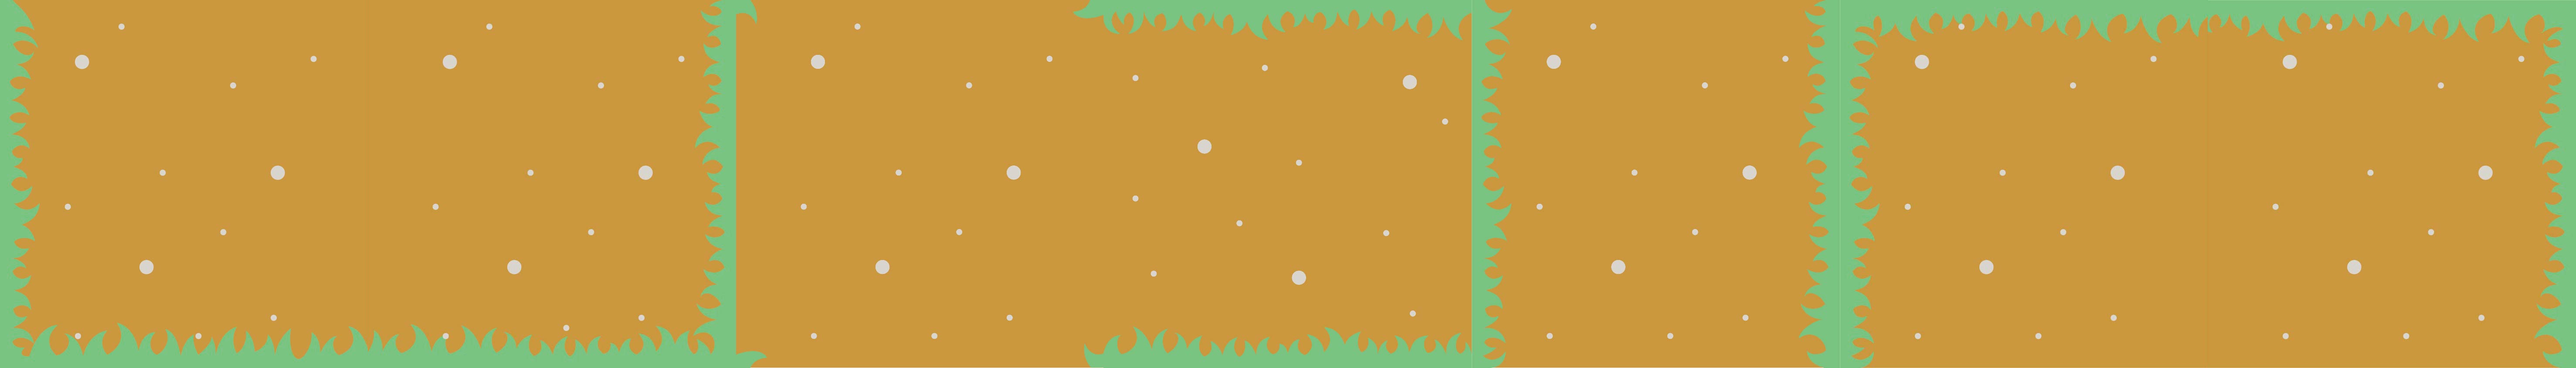
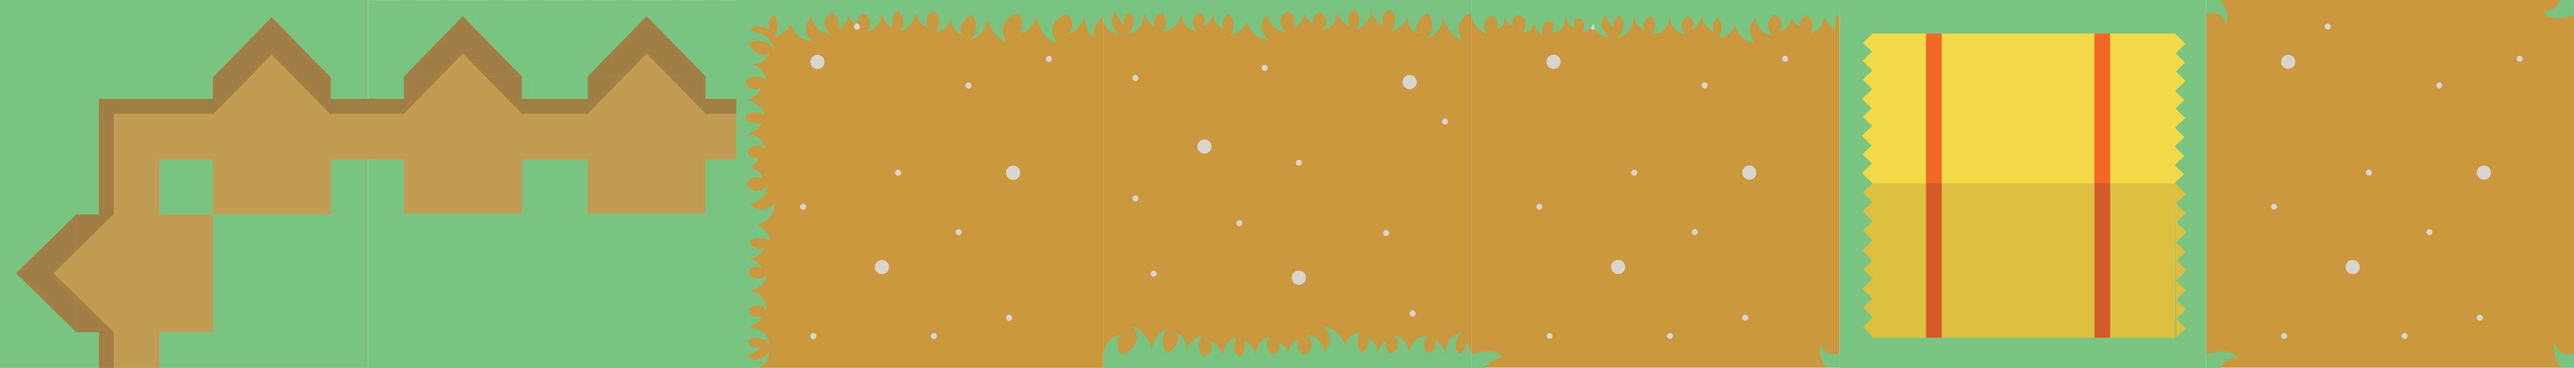
lots of stuff

diff --git a/scripts/render/background.js b/scripts/render/background.js
@@ -16,82 +16,90 @@ MyGame.render.Background = function(graphics){
     image.src = "assets/tilemap-path.jpg";
 
     function render() {
-        for (let i = 0; i < MyGame.constants.TILES_PER_COL; i++){
-            for (let j = 0; j < MyGame.constants.TILES_PER_ROW; j++) {
+        for (let row = 0; row < MyGame.constants.TILES_PER_COL; row++){
+            for (let column = 0; column < MyGame.constants.TILES_PER_ROW; column++) {
                 let tileIndex = -1;
                 let rotation = 0;
 
                 // Corner Border Tiles
-                if (i === 0 && j === 0){
+                if (row === 0 && column === 0){
                     tileIndex = 0;
                 }
-                else if (i === 0 && j === MyGame.constants.TILES_PER_ROW - 1){
+                else if (row === 0 && column === MyGame.constants.TILES_PER_ROW - 1){
                     tileIndex = 0;
                     rotation = 90;
                 }
-                else if (i === MyGame.constants.TILES_PER_COL - 1 && j === MyGame.constants.TILES_PER_ROW - 1) {
+                else if (row === MyGame.constants.TILES_PER_COL - 1 && column === MyGame.constants.TILES_PER_ROW - 1) {
                     tileIndex = 0;
                     rotation = 180;
                 }
-                else if (i === MyGame.constants.TILES_PER_COL - 1 && j === 0) {
+                else if (row === MyGame.constants.TILES_PER_COL - 1 && column === 0) {
                     tileIndex = 0;
                     rotation = 270;
                 }
 
                 // Straight Border Tiles
-                else if (i === 0 || i === MyGame.constants.TILES_PER_COL - 1){
+                else if (row === 0){
                     tileIndex = 1;
                 }
-                else if (j === 0 || j === MyGame.constants.TILES_PER_ROW - 1) {
+                else if (column === MyGame.constants.TILES_PER_ROW - 1) {
                     tileIndex = 1;
                     rotation = 90;
+                }
+                else if(row === MyGame.constants.TILES_PER_COL - 1){
+                    tileIndex = 1;
+                    rotation = 180;
+                }
+                else if (column === 0) {
+                    tileIndex = 1;
+                    rotation = 270;
                 }
 
                 // Corner Path Tiles
-                if (i === 1 && j === 1){
+                else if (row === 1 && column === 1){
                     tileIndex = 2;
                 }
-                else if (i === 1 && j === MyGame.constants.TILES_PER_ROW - 2){
+                else if (row === 1 && column === MyGame.constants.TILES_PER_ROW - 2){
                     tileIndex = 2;
                     rotation = 90;
                 }
-                else if (i === MyGame.constants.TILES_PER_COL - 2 && j === MyGame.constants.TILES_PER_ROW - 2) {
+                else if (row === MyGame.constants.TILES_PER_COL - 2 && column === MyGame.constants.TILES_PER_ROW - 2) {
                     tileIndex = 2;
                     rotation = 180;
                 }
-                else if (i === MyGame.constants.TILES_PER_COL - 2 && j === 1) {
+                else if (row === MyGame.constants.TILES_PER_COL - 2 && column === 1) {
                     tileIndex = 2;
                     rotation = 270;
                 }
 
                 // Straight Path Tiles
-                else if (i % 2 === 0 && j % 2 === 1){
+                else if (row % 2 === 1 && column % 2 === 0){
                     tileIndex = 3;
                 }
-                else if (i % 2 === 1 && j % 2 === 0) {
+                else if (row % 2 === 0 && column % 2 === 1) {
                     tileIndex = 3;
                     rotation = 90;
                 }
 
                 // T Path Tiles
-                else if (i === 1){
+                else if (row === 1){
                     tileIndex = 4;
                 }
-                else if (j === MyGame.constants.TILES_PER_ROW - 2) {
+                else if (column === MyGame.constants.TILES_PER_ROW - 2) {
                     tileIndex = 4;
                     rotation = 90;
                 }
-                else if (i === MyGame.constants.TILES_PER_COL - 2) {
+                else if (row === MyGame.constants.TILES_PER_COL - 2) {
                     tileIndex = 4;
                     rotation = 180;
                 }
-                else if (j === 1) {
+                else if (column === 1) {
                     tileIndex = 4;
                     rotation = 270;
                 }
 
                 // Barrier Tiles
-                else if (i % 2 === 0){
+                else if (row % 2 === 0){
                     tileIndex = 5;
                 }
 
@@ -99,7 +107,7 @@ MyGame.render.Background = function(graphics){
                 else {
                     tileIndex = 6;
                 }
-                let center = { x: (j * tileWidth) + (tileWidth / 2), y: (i * tileHeight) + (tileHeight / 2) }
+                let center = { x: (column * tileWidth) + (tileWidth / 2), y: (row * tileHeight) + (tileHeight / 2) }
                 graphics.drawSubTexture(image, 0, tileIndex, subTextureWidth, image.height, center, rotation, tileSize);
             }
         }

diff --git a/scripts/gamemodel.js b/scripts/gamemodel.js
@@ -1,13 +1,13 @@
 function GameModel(keyboard, objects) {
     let collisionGrid = [];
-    let player1 = objects.SmolAngryBoi({
-        grid: collisionGrid,
-        size: { x: MyGame.constants.TILE_WIDTH, y: MyGame.constants.TILE_HEIGHT },
-        center: { x: MyGame.constants.TILE_WIDTH * 3 / 2, y: MyGame.constants.TILE_HEIGHT * 3 / 2 },
-        moveRate: MyGame.constants.STARTING_SPEED
-    });
+    let players = [];
+    let eggs = [];
+    let nextId = 0;
 
     function update(elapsedTime) {
+        for (let i = 0; i < eggs.length; i++) {
+            eggs[i].update(elapsedTime);
+        }
     }
 
     function initialize() {
@@ -17,37 +17,84 @@ function GameModel(keyboard, objects) {
                 if (
                     row === 0 ||
                     column === 0 ||
+                    column === MyGame.constants.TILES_PER_ROW - 1 ||
                     row === MyGame.constants.TILES_PER_COL - 1 ||
-                    row === MyGame.constants.TILES_PER_ROW - 1 ||
                     (row % 2 === 0 && column % 2 === 0)
                 ){
-                    collisionGrid[row][column] = 1;
+                    collisionGrid[row][column] = MyGame.constants.BARRIER_BLOCK;
                 }
                 else {
-                    collisionGrid[row][column] = 0;
+                    collisionGrid[row][column] = MyGame.constants.EMPTY;
                 }
             }
         }
 
+        players.push(objects.SmolAngryBoi({
+            id: 0,
+            grid: collisionGrid,
+            size: { x: MyGame.constants.TILE_WIDTH, y: MyGame.constants.TILE_HEIGHT },
+            center: { x: MyGame.constants.TILE_WIDTH * 3 / 2, y: MyGame.constants.TILE_HEIGHT * 3 / 2 },
+            moveRate: MyGame.constants.STARTING_SPEED,
+            reportEvent
+        }));
+        players.push(objects.SmolAngryBoi({
+            id: 1,
+            grid: collisionGrid,
+            size: { x: MyGame.constants.TILE_WIDTH, y: MyGame.constants.TILE_HEIGHT },
+            center: { x: MyGame.constants.TILE_WIDTH * MyGame.constants.TILES_PER_ROW - (MyGame.constants.TILE_WIDTH * 3 / 2), y: MyGame.constants.TILE_HEIGHT * 3 / 2 },
+            moveRate: MyGame.constants.STARTING_SPEED,
+            reportEvent
+        }));
+
         initializeKeyboard();
     }
     function initializeKeyboard() {
-        keyboard.register('w', player1.moveUp);
-        keyboard.register('a', player1.moveLeft);
-        keyboard.register('s', player1.moveDown);
-        keyboard.register('d', player1.moveRight);
+        keyboard.register('w', players[0].moveUp);
+        keyboard.register('a', players[0].moveLeft);
+        keyboard.register('s', players[0].moveDown);
+        keyboard.register('d', players[0].moveRight);
+        keyboard.register('q', players[0].layEgg);
+
+        keyboard.register('ArrowUp', players[1].moveUp);
+        keyboard.register('ArrowLeft', players[1].moveLeft);
+        keyboard.register('ArrowDown', players[1].moveDown);
+        keyboard.register('ArrowRight', players[1].moveRight);
+        keyboard.register('/', players[1].layEgg);
     }
 
     function reportEvent(info) {
         switch(info.type) {
+            case 'lay-egg':
+                handleEggLaid(info.id, info.location);
+                break;
+            case 'eggsplode':
+                handleEggsplosion(info.id, info.belongsTo, info.location);
+                break;
         }
+    }
+
+    function handleEggLaid(playerId, location) {
+        eggs.push(objects.Egg({
+            id: nextId++,
+            playerId,
+            location,
+            reportEvent
+        }));
+    }
+
+    function handleEggsplosion(id, belongsTo, location) {
+        eggs = eggs.filter(egg => egg.id !== id);
+        players[belongsTo].returnEgg();
+
+        //TODO: Determine which players were hit by the egg's power
     }
 
     initialize();
 
     let api = {
         update: update,
-        get player1() { return player1; }
+        get players() { return players; },
+        get eggs() { return eggs; }
     }
 
     return api;

diff --git a/scripts/render/game.js b/scripts/render/game.js
@@ -1,15 +1,33 @@
 MyGame.render.Game = function(model, graphics) {
     'use strict';
     let renderer = MyGame.render;
-    let birdRender = renderer.SmolAngryBoi(model.player1, graphics);
+
     let background = renderer.Background(graphics);
+    let egg = renderer.Egg(graphics);
+    let characters = [];
+    for (let i = 0; i < model.players.length; i++){
+        characters.push(renderer.SmolAngryBoi(model.players[i], graphics));
+    }
 
     function update(elapsedTime) {
-        birdRender.update(model.player1, elapsedTime);
+        for (let i = 0; i < characters.length; i++) {
+            characters[i].update(model.players[i], elapsedTime);
+        }
+        // for (let i = 0; i < eggs.length; i++){
+        //     eggs[i].update(elapsedTime);
+        // }
     }
+
     function render() {
         background.render(graphics);
-        birdRender.render(model.player1);
+        for (let i = 0; i < characters.length; i++) {
+            characters[i].render(model.players[i]);
+        }
+        for (let i = 0; i < model.eggs.length; i++) {
+            if (model.eggs[i]) {
+                egg.render(model.eggs[i]);
+            }
+        }
     }
 
     let api = {

diff --git a/scripts/objects/egg.js b/scripts/objects/egg.js
@@ -1,0 +1,36 @@
+MyGame.objects.Egg = function(spec) {
+    let id = spec.id;
+    let timeRemaining = MyGame.constants.EGGSPLOSION_TIME;
+    let belongsTo = spec.playerId;
+    let location = spec.location;
+    let size = { x: MyGame.constants.TILE_WIDTH, y: MyGame.constants.TILE_HEIGHT };
+    let center = { x: (spec.location.x + 0.5) * MyGame.constants.TILE_WIDTH, y: (spec.location.y + 0.5) * MyGame.constants.TILE_HEIGHT }
+    let rotation = 0;
+
+    function update(elapsedTime) {
+        timeRemaining -= elapsedTime;
+        if (timeRemaining < 0) {
+            eggsplode()
+        }
+    }
+
+    function eggsplode() {
+        spec.reportEvent({
+            type: 'eggsplode',
+            id,
+            belongsTo,
+            location
+        });
+    }
+
+    let api = {
+        update: update,
+        get id() { return id; },
+        get size() { return size; },
+        get center() { return center; },
+        get rotation() { return rotation; },
+        get timeRemaining() { return timeRemaining; }
+    }
+
+    return api;
+}

diff --git a/scripts/render/egg.js b/scripts/render/egg.js
@@ -1,0 +1,24 @@
+MyGame.render.Egg = function(graphics){
+    let model = MyGame.render.AnimatedModel({
+        spriteSheet: 'assets/spritesheet-egg.png',
+        spriteActionCount: 1,
+        spriteFrameCount: 4,
+        spriteTime: [[
+            MyGame.constants.EGGSPLOSION_TIME / frames,
+            MyGame.constants.EGGSPLOSION_TIME / frames,
+            MyGame.constants.EGGSPLOSION_TIME / frames,
+            MyGame.constants.EGGSPLOSION_TIME / frames]],
+    }, graphics);
+
+    function render(egg) {
+        if (egg){
+            model.render(egg);
+        }
+    }
+
+    let api = {
+        render: render
+    }
+
+    return api;
+}

diff --git a/index.html b/index.html
@@ -47,11 +47,13 @@
 		<script src="scripts/constants.js"></script>
 		<script src="scripts/utils.js"></script>
 
+		<script src="scripts/objects/egg.js"></script>
 		<script src="scripts/objects/smolangryboi.js"></script>
 		<script src="scripts/gamemodel.js"></script>
 
 		<script src="scripts/render/graphics.js"></script>
 		<script src="scripts/render/animatedmodel.js"></script>
+		<script src="scripts/render/egg.js"></script>
 		<script src="scripts/render/background.js"></script>
 		<script src="scripts/render/smolangryboi.js"></script>
 		<script src="scripts/render/game.js"></script>

diff --git a/scripts/constants.js b/scripts/constants.js
@@ -7,4 +7,9 @@ MyGame.constants.TILES_PER_COL = 13;
 MyGame.constants.TILE_HEIGHT = MyGame.constants.CANVAS_HEIGHT / MyGame.constants.TILES_PER_COL;
 MyGame.constants.TILE_WIDTH = MyGame.constants.TILE_HEIGHT;
 
-MyGame.constants.STARTING_SPEED = (2.5 * MyGame.constants.TILE_WIDTH) / 1000
+MyGame.constants.STARTING_SPEED = (2.5 * MyGame.constants.TILE_WIDTH) / 1000;
+MyGame.constants.EGGSPLOSION_TIME = 3500;
+
+MyGame.constants.BARRIER_BLOCK = 2;
+MyGame.constants.EGG = 1;
+MyGame.constants.EMPTY = 0;

diff --git a/scripts/render/smolangryboi.js b/scripts/render/smolangryboi.js
@@ -1,6 +1,6 @@
 MyGame.render.SmolAngryBoi = function(smolAngryBoi, graphics){
     let model = MyGame.render.AnimatedModel({
-        spriteSheet: 'assets/spritesheet-smolangryboi.png',
+        spriteSheet: 'assets/spritesheet-smolangryboi' + smolAngryBoi.id + '.png',
         spriteActionCount: 4,
         spriteFrameCount: 4,
         spriteTime: [[125, 125, 125, 125], [125, 125, 125, 125], [125, 125, 125, 125], [125, 125, 125, 125]],
